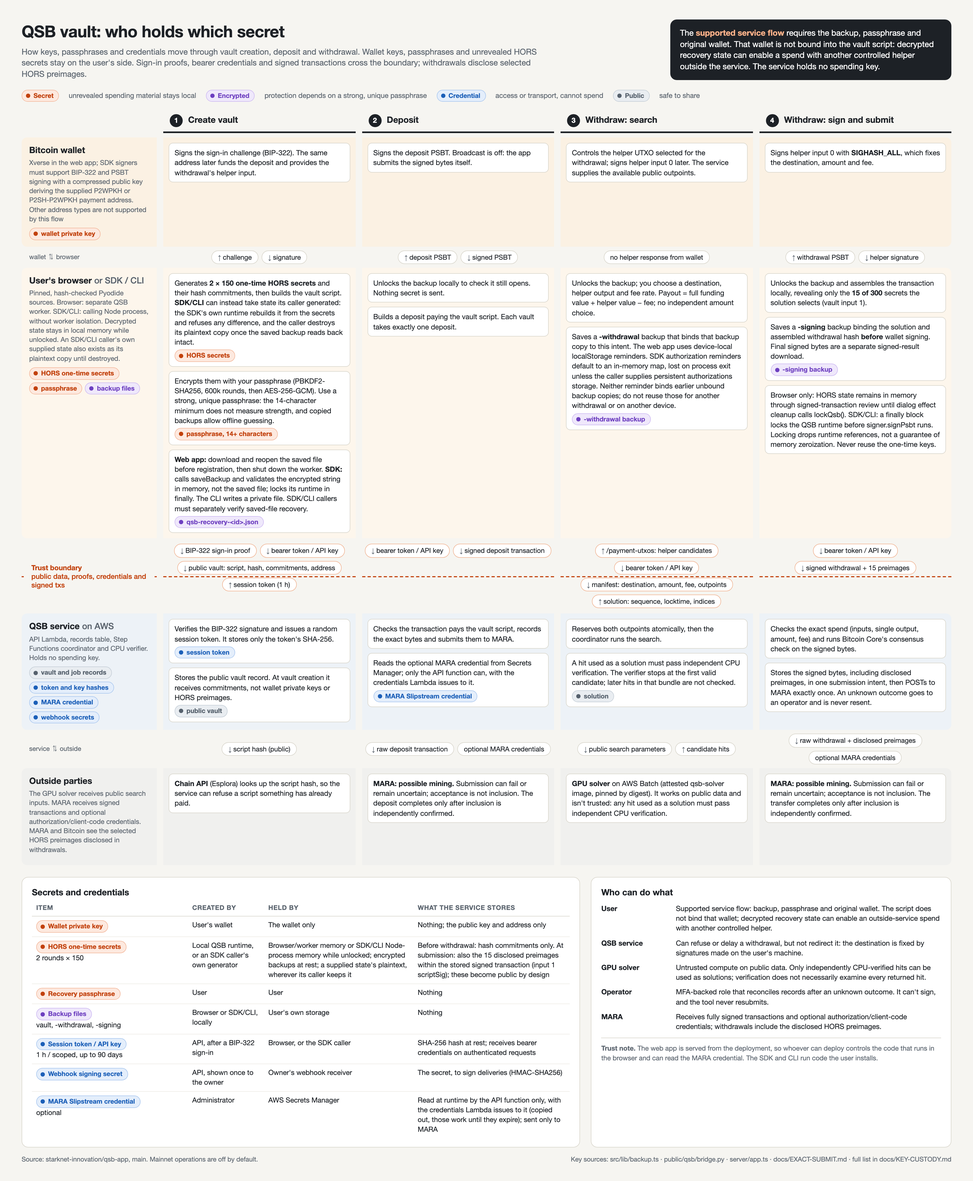
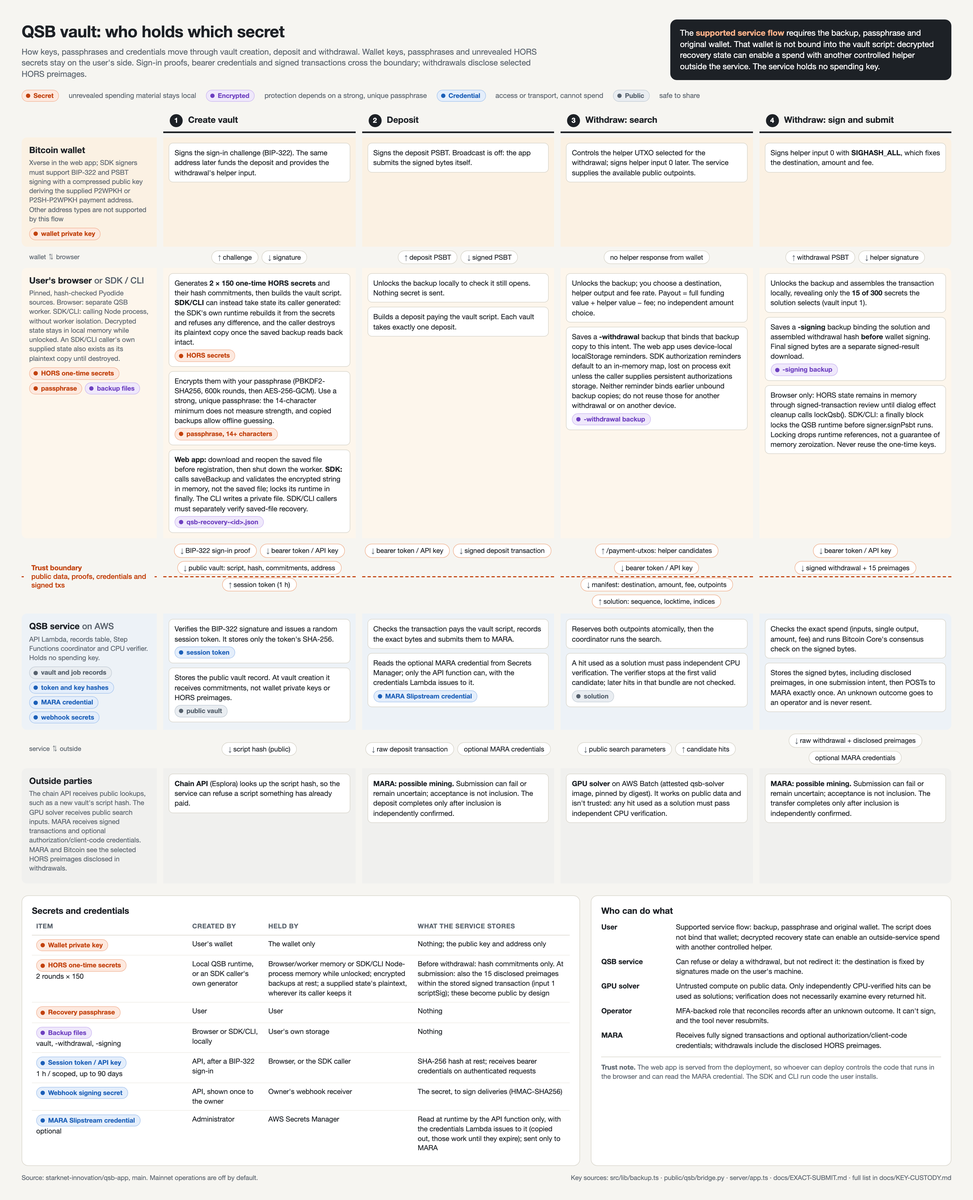
Ask the chain first; guide the SDK caller after a failed chain lookup
POST /api/vaults asks the chain before it reveals a reservation, so a script
anyone can see on chain gets vault_script_paid whether or not a vault here has
it. A repeat of this vault's own request still skips the lookup.

The SDK says a failed chain lookup registered nothing and the saved backup is
for no vault, and its refusal messages no longer assume who holds or paid the
script. Docs: the Idempotency-Key replay of a repeated registration, when a
retry after a lost race is refused, and the chain API in the key-custody
summaries.

diff --git a/tests/sdk-supplied-state.test.ts b/tests/sdk-supplied-state.test.ts
@@ -360,7 +360,7 @@ describe("vaults.create with a supplied state", () => {
     );
     expect(error).toBeInstanceOf(RefusedState);
     expect(error.message).toBe(
-      "The deployment refused to register the vault (vault_script_registered): another vault on this deployment already has this script. A script locks one vault, which takes one deposit. Nothing was registered, and the backup just saved is for no new vault: never pay into its script, and destroy that backup only if you hold another copy of this state.",
+      "The deployment refused to register the vault (vault_script_registered): another vault on this deployment already has this script. A script locks one vault, which takes one deposit. Nothing was registered, and the backup just saved is for no new vault: pay into this script only as the one deposit of the vault that has it. Destroy that backup only if you hold another copy of this state.",
     );
     expect(saveBackup).toHaveBeenCalledOnce();
     expect(storedVaults(w)).toEqual([vault.id]);
@@ -379,9 +379,29 @@ describe("vaults.create with a supplied state", () => {
     expect(error).toBeInstanceOf(RefusedState);
     // The secrets may already lock someone's payment: the message never says to discard the backup.
     expect(error.message).toBe(
-      "The deployment refused to register the vault (vault_script_paid): something has already paid this script on chain. A script locks one vault, which takes one deposit. Nothing was registered, and the app won't spend that output. Keep the backup just saved, or another copy of this state: it holds the secrets that can spend that output. Never pay into its script again.",
+      "The deployment refused to register the vault (vault_script_paid): something has already paid this script on chain. A script locks one vault, which takes one deposit, so no new vault can have it. Nothing was registered. Keep the backup just saved, or another copy of this state: it holds the secrets that can spend what was paid. Don't pay into this script for a new vault.",
     );
     expect(storedVaults(w)).toEqual([]);
+  }, 120000);
+
+  it("says a failed chain lookup registered nothing, and that the same state can be tried again", async () => {
+    const { w, client } = await signedIn();
+    w.chain.failing.add("/scripthash/");
+    const saveBackup = vi.fn(async () => {});
+    const error = await client.vaults.create({ name: "chain down", passphrase, saveBackup, stateJson: generated.stateJson }).then(
+      () => new Error("registered"),
+      (e: Error) => e,
+    );
+    // Not a verdict on the state.
+    expect(error).not.toBeInstanceOf(RefusedState);
+    expect(error.message).toBe(
+      "The deployment couldn't check the vault's script on chain (chain_unavailable), so it registered nothing. The backup just saved is for an unregistered vault: never pay into its script. Retry with the same state.",
+    );
+    expect(saveBackup).toHaveBeenCalledOnce();
+    expect(storedVaults(w)).toEqual([]);
+    w.chain.failing.clear();
+    const { vault } = await client.vaults.create({ name: "chain back", passphrase, saveBackup, stateJson: generated.stateJson });
+    expect(storedVaults(w)).toEqual([vault.id]);
   }, 120000);
 });
 

diff --git a/sdk/client.ts b/sdk/client.ts
@@ -225,15 +225,19 @@ function refused(error: ApiRequestError, what: string, next = ""): Error {
 }
 /**
  * The server's refusals of a vault whose script isn't new: final, and nothing was registered. Each
- * says what to do with the backup just saved. A paid script's backup may be the only copy of the
- * secrets that can spend that output, which the app never spends.
+ * says what to do with the backup just saved. The vault that has the script may be the caller's
+ * own, and a paid script's backup may be the only copy of the secrets that spend what was paid.
  */
 const scriptRefusals: Record<string, string> = {
   vault_script_registered:
-    "another vault on this deployment already has this script. A script locks one vault, which takes one deposit. Nothing was registered, and the backup just saved is for no new vault: never pay into its script, and destroy that backup only if you hold another copy of this state.",
+    "another vault on this deployment already has this script. A script locks one vault, which takes one deposit. Nothing was registered, and the backup just saved is for no new vault: pay into this script only as the one deposit of the vault that has it. Destroy that backup only if you hold another copy of this state.",
   vault_script_paid:
-    "something has already paid this script on chain. A script locks one vault, which takes one deposit. Nothing was registered, and the app won't spend that output. Keep the backup just saved, or another copy of this state: it holds the secrets that can spend that output. Never pay into its script again.",
+    "something has already paid this script on chain. A script locks one vault, which takes one deposit, so no new vault can have it. Nothing was registered. Keep the backup just saved, or another copy of this state: it holds the secrets that can spend what was paid. Don't pay into this script for a new vault.",
 };
+/** The server's chain lookup failed before it wrote anything: not a verdict on the state. */
+function chainFailure(error: unknown): error is ApiRequestError & { code: string } {
+  return error instanceof ApiRequestError && (error.code === "chain_unavailable" || error.code === "chain_error");
+}
 function scriptRefusal(error: unknown): error is ApiRequestError & { code: string } {
   return (
     error instanceof ApiRequestError &&
@@ -589,6 +593,11 @@ export class QsbClient {
           if (scriptRefusal(error))
             throw new RefusedState(
               `The deployment refused to register the vault (${error.code}): ${scriptRefusals[error.code]}`,
+              { cause: error },
+            );
+          if (chainFailure(error))
+            throw new Error(
+              `The deployment couldn't check the vault's script on chain (${error.code}), so it registered nothing. The backup just saved is for an unregistered vault: never pay into its script. ${supplied ? "Retry with the same state." : "A retry makes a new vault and a new backup."}`,
               { cause: error },
             );
           throw ownerRefusal(error)

diff --git a/tests/vault-script-reservation.test.ts b/tests/vault-script-reservation.test.ts
@@ -41,7 +41,7 @@ async function fixture(store = new MemoryStore()) {
       expiresAt: Math.floor(Date.now() / 1000) + 3600,
     });
   /** What the chain API reports for each script hash: its funded output counts, or another answer. */
-  const funded = new Map<string, { chain: number; mempool: number } | (() => Response)>();
+  const funded = new Map<string, { chain: number; mempool: number; spent?: number } | (() => Response)>();
   const lookups: string[] = [];
   const network = { genesis: NETWORK_CONFIG.genesisHash };
   const chain = new Esplora("https://chain.test", async (input) => {
@@ -53,7 +53,7 @@ async function fixture(store = new MemoryStore()) {
     const counts = funded.get(hash) ?? { chain: 0, mempool: 0 };
     if (typeof counts === "function") return counts();
     return Response.json({
-      chain_stats: { funded_txo_count: counts.chain, spent_txo_count: 0 },
+      chain_stats: { funded_txo_count: counts.chain, spent_txo_count: counts.spent ?? 0 },
       mempool_stats: { funded_txo_count: counts.mempool, spent_txo_count: 0 },
       scripthash: hash,
     });
@@ -110,8 +110,18 @@ describe("POST /api/vaults registers each script once on the deployment", () => 
     }
     expect(f.rows().vaults).toEqual([first.id]);
     expect(f.rows().reservations.map((row) => row.vaultId)).toEqual([first.id]);
-    // A held reservation refuses before the chain is asked.
-    expect(f.lookups).toEqual([first.scriptHash]);
+    // The chain is asked first each time.
+    expect(f.lookups).toEqual([first.scriptHash, first.scriptHash, first.scriptHash]);
+  });
+
+  it("answers a reserved script that is paid like any paid script, so the refusal doesn't say a vault here has it", async () => {
+    const f = await fixture();
+    const scriptHex = script();
+    const first = vaultFor(owners[0], scriptHex);
+    expect((await f.register(first)).status).toBe(201);
+    f.funded.set(first.scriptHash, { chain: 1, mempool: 0 });
+    expect(await f.register(vaultFor(owners[1], scriptHex))).toMatchObject({ status: 409, body: { code: "vault_script_paid" } });
+    expect(f.rows().vaults).toEqual([first.id]);
   });
 
   it("lets exactly one of two concurrent registrations of a script, from two addresses, succeed", async () => {
@@ -164,7 +174,7 @@ describe("POST /api/vaults registers each script once on the deployment", () => 
 
   it("refuses a script that something already paid, confirmed or in the mempool, spent or not", async () => {
     const f = await fixture();
-    for (const counts of [{ chain: 1, mempool: 0 }, { chain: 0, mempool: 1 }]) {
+    for (const counts of [{ chain: 1, mempool: 0 }, { chain: 0, mempool: 1 }, { chain: 1, mempool: 0, spent: 1 }]) {
       const vault = vaultFor(owners[0], script());
       f.funded.set(vault.scriptHash, counts);
       expect(await f.register(vault)).toEqual({

diff --git a/server/app.ts b/server/app.ts
@@ -670,12 +670,15 @@ export function createApp(
     const elsewhere = (held: Row | undefined) =>
       held !== undefined && (held.owner !== owner || held.vaultId !== vault.id);
     const held = await store.get(reservation.pk, reservation.sk);
+    const repeat = held !== undefined && !elsewhere(held);
+    // A paid script is never a new vault: a paid vault row here without a reservation, or a script
+    // used outside this deployment. Asked before the reservation, so a script anyone can see on
+    // chain gets this answer whether or not a vault here has it. A failed lookup refuses too:
+    // nothing is written without it.
+    if (!repeat && (await ledger.scriptFunded(vault.scriptHash)))
+      return apiError(c, 409, "vault_script_paid", "This script has already been paid on chain, so it can't be a new vault.");
     if (elsewhere(held))
       return apiError(c, 409, "vault_script_registered", "Another vault on this deployment already has this script.");
-    // A paid script is never a new vault: a paid vault row here without a reservation, or a script
-    // used outside this deployment. A failed lookup refuses too: nothing is written without it.
-    if (!held && (await ledger.scriptFunded(vault.scriptHash)))
-      return apiError(c, 409, "vault_script_paid", "This script has already been paid on chain, so it can't be a new vault.");
     try {
       await store.atomicPut([
         { row: { pk: `OWNER#${owner}`, sk: `VAULT#${vault.id}`, version: 0, vault } },

diff --git a/tests/sdk-fixture.ts b/tests/sdk-fixture.ts
@@ -22,6 +22,8 @@ export const API = "http://127.0.0.1:8787";
 export class FakeChain {
   private txs = new Map<string, { raw: string; tx: btc.Transaction; height?: number }>();
   private blocks = [GENESIS];
+  /** Path prefixes that answer 503, like a failing provider. */
+  readonly failing = new Set<string>();
   add(raw: string): string {
     const tx = btc.Transaction.fromRaw(hex.decode(raw), opts);
     if (!this.txs.has(tx.id)) this.txs.set(tx.id, { raw: raw.toLowerCase(), tx });
@@ -46,6 +48,7 @@ export class FakeChain {
   }
   readonly fetch = (async (input: RequestInfo | URL) => {
     const path = new URL(String(input)).pathname;
+    if ([...this.failing].some((prefix) => path.startsWith(prefix))) return new Response("", { status: 503 });
     const text = (body: string) => new Response(body);
     const json = (body: unknown) => new Response(JSON.stringify(body));
     const missing = () => new Response("not found", { status: 404 });

diff --git a/docs/key-custody.html b/docs/key-custody.html
@@ -248,7 +248,7 @@
   <!-- EXTERNAL LANE -->
   <div class="lane-label external">
     <h2>Outside parties</h2>
-    <p>The GPU solver receives public search inputs. MARA receives signed transactions and optional authorization/client-code credentials. MARA and Bitcoin see the selected HORS preimages disclosed in withdrawals.</p>
+    <p>The chain API receives public lookups, such as a new vault's script hash. The GPU solver receives public search inputs. MARA receives signed transactions and optional authorization/client-code credentials. MARA and Bitcoin see the selected HORS preimages disclosed in withdrawals.</p>
   </div>
   <div class="cell external">
     <div class="step"><b>Chain API</b> (Esplora) looks up the script hash, so the service can refuse a script something has already paid.</div>

diff --git a/tests/api-errors.test.ts b/tests/api-errors.test.ts
@@ -310,6 +310,10 @@ const cases: [ApiErrorCode, number, (f: Fixture) => Response | Promise<Response>
   }],
   ["vault_invalid", 400, (f) => f.call("POST", "/vaults", vault({ paymentAddress: "bc1qunrelatedowner0000" }))],
   ["vault_script_registered", 409, async (f) => {
+    genesis(f);
+    f.routes.set(`/scripthash/${registrable().scriptHash}`, () =>
+      Response.json({ chain_stats: { funded_txo_count: 0 }, mempool_stats: { funded_txo_count: 0 } }),
+    );
     await f.store.put(scriptReservation("bc1qanotherowner", { id: other, scriptHash: registrable().scriptHash }));
     return f.call("POST", "/vaults", registrable());
   }],

diff --git a/sdk/README.md b/sdk/README.md
@@ -96,14 +96,14 @@ Rules that carry over from the webapp:
 - `adopt` in [`bridge.py`](../public/qsb/bridge.py) runs the pipeline's setup again with those secrets in place of its random draws, and every field must equal what that builds, in type and value: each commitment (its secret's HASH160), the dummy signatures, the pinning and round signatures with their nonces, and the full script, which setup builds only within the 10,000-byte and 201-opcode limits. A missing field is refused, and so is any field setup doesn't write, in a round signature too.
 - No vault of the signed-in address on this deployment has a script that pushes any of its HORS commitments, so none shares its script or one of its secrets. The SDK reads each vault's script, which the server binds to the vault's hash, not the commitments its public state declares. The SDK lists that address's vaults before the check, so an API key needs the `read` scope as well as `vaults`, and lists them again just before registering.
 
-`vaults.create` throws a `RefusedState` for a refused state, with a message that says what didn't match, naming the field: for example `The supplied recovery state was refused: hors_commitments[0][17] is not what the pipeline builds from these HORS secrets. Nothing was saved or registered.` Every refusal comes before `saveBackup`, except two, which come after it: the second listing finds a vault registered from the same secrets while the backup was saved, or the server refuses the vault's script as not new (`vault_script_registered`, `vault_script_paid`; [API](../docs/API.md#vault-registration)). Nothing is registered then, and the message says what to do with the backup just saved. After the second listing, discard it. After `vault_script_registered`, destroy it only if you hold another copy of the state. After `vault_script_paid`, keep it or another copy: something already paid that script, the app never spends that output, and only those secrets can. The server's refusal is a `RefusedState` with or without `stateJson`. Any other error (a name or passphrase it won't take, a runtime or deployment failure) is not a verdict on the state. An accepted state gives the same public state and script as when the SDK draws the same secrets itself, and its backup holds the same state; the same bundled runtime re-opens the backup after `saveBackup`.
+`vaults.create` throws a `RefusedState` for a refused state, with a message that says what didn't match, naming the field: for example `The supplied recovery state was refused: hors_commitments[0][17] is not what the pipeline builds from these HORS secrets. Nothing was saved or registered.` Every refusal comes before `saveBackup`, except two, which come after it: the second listing finds a vault registered from the same secrets while the backup was saved, or the server refuses the vault's script as not new (`vault_script_registered`, `vault_script_paid`; [API](../docs/API.md#vault-registration)). Nothing is registered then, and the message says what to do with the backup just saved. After the second listing, discard it. After `vault_script_registered`, destroy it only if you hold another copy of the state. After `vault_script_paid`, keep it or another copy: something already paid that script, and those secrets are what can spend it. The server's refusal is a `RefusedState` with or without `stateJson`. Any other error (a name or passphrase it won't take, a runtime or deployment failure) is not a verdict on the state. When the server's chain lookup fails (`chain_unavailable`, `chain_error`), the error says nothing was registered and the backup just saved is for no vault; retry with the same state. An accepted state gives the same public state and script as when the SDK draws the same secrets itself, and its backup holds the same state; the same bundled runtime re-opens the backup after `saveBackup`.
 
 Pass the text as written. The state holds integers above 2^53 (`pin_r`, `pin_s`, `pin_k` and each round's `r`, `s` and `k`) that `JSON.parse` rounds, and a rounded state is refused.
 
 The SDK can't check these, so they're up to you:
 
 - The secrets are random and nobody else has them. Draw them from a cryptographically secure source; setup's `--seed` makes them predictable. Anyone who has them can spend the vault.
-- The secrets lock no other vault. The server refuses the vault when another vault on this deployment, of any address, has the same script, or when something has already paid that script on chain, so of two `vaults.create` calls running at once with the same state only one registers. The SDK also refuses secrets whose commitments a vault script of the signed-in address pushes. Neither catches some of the secrets reused in a different script by another address, or the same script on another deployment while nothing has paid it ([what the server doesn't cover](../docs/API.md#vault-registration)). A state is for one vault and one deposit, and its secrets are for one state, in part or reordered: the first withdrawal discloses 15 of them, which would help someone else spend any other output whose script uses them.
+- The secrets lock no other vault. The server refuses the vault when another vault on this deployment, of any address, has reserved the same script, or when something has already paid that script on chain, so of two `vaults.create` calls running at once with the same state only one registers. The SDK also refuses secrets whose commitments a vault script of the signed-in address pushes. Neither catches some of the secrets reused in a different script by another address, or the same script on another deployment while nothing has paid it ([what the server doesn't cover](../docs/API.md#vault-registration)). A state is for one vault and one deposit, and its secrets are for one state, in part or reordered: the first withdrawal discloses 15 of them, which would help someone else spend any other output whose script uses them.
 - The plaintext copy. The backup holds the state encrypted. Keep the plaintext as safe as the backup until the saved backup reads back as the `backup` that `vaults.create` returned (the CLI checks this before it finishes), then destroy it.
 
 `nodeQsb().adoptQsb(stateJson)` runs the same bridge check on its own, without the address check, and returns what `generateQsb` would. It throws `RefusedState` when it refuses the state.

diff --git a/docs/API.md b/docs/API.md
@@ -86,11 +86,11 @@ Sign-in, reads and pause stay open, and so does `POST /api/jobs/:id/submit`: it 
 
 `POST /api/vaults` registers the public record of a vault the client generated. A script belongs to one vault and takes one deposit, so the server reserves each vault's script on the deployment, under any address. Before writing anything it refuses a script that isn't new:
 
-- **409 `vault_script_registered`**: another vault on this deployment already has this script. Each registration writes a reservation row, `SCRIPT#<scriptHash>` / `RESERVATION` (the owner and the vault id), in the same transaction as the vault row, with `attribute_not_exists`. Of two registrations of one script, at once or not, at most one succeeds. The one that loses a race gets `vault_script_registered`, or `state_conflict` while the winner's transaction is still in flight; a retry then gets `vault_script_registered`. The message never names the other vault or its address. As for `OUTPOINT#` rows, the API role's policy denies `DeleteItem`, `UpdateItem` and `BatchWriteItem` on them, and the code writes them only with `attribute_not_exists`.
-- **409 `vault_script_paid`**: the chain API reports an output paying the script, confirmed or in the mempool, spent or not (Esplora's `/scripthash/<scriptHash>`, `funded_txo_count`). This covers a script used outside this deployment, and a paid vault row here that has no reservation.
+- **409 `vault_script_paid`**: the chain API reports an output paying the script, confirmed or in the mempool, spent or not (Esplora's `/scripthash/<scriptHash>`, `funded_txo_count`). This covers a script used outside this deployment, and a paid vault row here that has no reservation. The chain is asked first, so a paid script gets this code whether or not a vault here has it: the refusal doesn't tell anyone who sees a script on chain whether this deployment holds it.
+- **409 `vault_script_registered`**: another vault on this deployment already has this script. Each registration writes a reservation row, `SCRIPT#<scriptHash>` / `RESERVATION` (the owner and the vault id), in the same transaction as the vault row, with `attribute_not_exists`. Of two registrations of one script, at once or not, at most one succeeds. The one that loses a race gets `vault_script_registered`, or `state_conflict` while the winner's transaction is still in flight; a retry gets `vault_script_registered` once the winner has committed. The message never names the other vault or its address. As for `OUTPOINT#` rows, the API role's policy denies `DeleteItem`, `UpdateItem` and `BatchWriteItem` on them, and the code writes them only with `attribute_not_exists`.
 - **A failed chain lookup refuses too** (503 `chain_unavailable`, or `chain_error`), and nothing is written; retry later. The check fails closed: a vault can't be funded without the chain API anyway (`/payment-utxos`, `/payment-input`), and registering a script that may already be paid could give it a second deposit.
 
-A repeat of a request that succeeded (same owner, same vault `id`) gets 409 `state_conflict`.
+A repeat of a request that succeeded (same owner, same vault `id`) gets 409 `state_conflict`, without a chain lookup, unless it sends the first request's `Idempotency-Key`, which replays the 201.
 
 What this doesn't cover:
 - Some vault rows on this deployment have no `SCRIPT#` reservation. A second registration of such a vault's script is refused only once something has paid it (`vault_script_paid`).

diff --git a/docs/KEY-CUSTODY.md b/docs/KEY-CUSTODY.md
@@ -11,7 +11,7 @@ Who holds each key, passphrase and credential through vault creation, deposit an
 - **Bitcoin wallet**: Xverse in the web app; SDK signers must support BIP-322 and PSBT signing with a compressed public key deriving the supplied P2WPKH or P2SH-P2WPKH payment address. Other address types are not supported by this flow. Holds the wallet private key.
 - **User's browser, or the SDK / CLI**: runs pinned, hash-checked QSB sources through Pyodide. The browser uses a separate worker; the SDK/CLI runs Pyodide in the calling Node process, without worker isolation. Decrypted HORS state is held in browser/worker memory or SDK/CLI process memory; passphrases and backup files stay on the user’s side. An SDK/CLI caller that supplies its own recovery state also holds the plaintext state it generated, until it destroys it.
 - **QSB service on AWS**: API Lambda, records table, Step Functions coordinator and CPU verifier. Holds vault and job records, session and API key hashes and webhook secrets, and reads the MARA credential. Holds no spending key.
-- **Outside parties**: The GPU solver receives public search inputs. MARA receives signed transactions and optional authorization/client-code credentials. MARA and Bitcoin see the selected HORS preimages disclosed in withdrawals.
+- **Outside parties**: The chain API receives public lookups, such as a new vault's script hash. The GPU solver receives public search inputs. MARA receives signed transactions and optional authorization/client-code credentials. MARA and Bitcoin see the selected HORS preimages disclosed in withdrawals.
 
 ## 1. Create vault
 
@@ -81,4 +81,4 @@ Who holds each key, passphrase and credential through vault creation, deposit an
 
 ## Sources
 
-Sources: `src/lib/backup.ts`, `public/qsb/bridge.py`, `public/qsb/qsb_pipeline.py`, `src/lib/wallet.ts`, `src/mainnet/localSignature.ts`, `server/app.ts`, `server/scoped-keys.ts`, `server/webhooks.ts`, `terraform/variables.tf`, `terraform/compute.tf`, `ops/github-aws/render.py`, `src/TransactionDialog.tsx`, `server/providers.ts`, `server/submit-exact.ts`, `src/App.tsx`, `server/transaction-checks.ts`, `sdk/runtime.ts`, `sdk/signer.ts`, `sdk/client.ts`, `sdk/cli.ts`, `worker/cpu/handler.py` and [EXACT-SUBMIT.md](EXACT-SUBMIT.md). Keep this page, `key-custody.html` and `key-custody.png` in step; see "Docs" in `AGENTS.md`.
+Sources: `src/lib/backup.ts`, `public/qsb/bridge.py`, `public/qsb/qsb_pipeline.py`, `src/lib/wallet.ts`, `src/mainnet/localSignature.ts`, `server/app.ts`, `server/chain.ts`, `server/scoped-keys.ts`, `server/webhooks.ts`, `terraform/variables.tf`, `terraform/compute.tf`, `ops/github-aws/render.py`, `src/TransactionDialog.tsx`, `server/providers.ts`, `server/submit-exact.ts`, `src/App.tsx`, `server/transaction-checks.ts`, `sdk/runtime.ts`, `sdk/signer.ts`, `sdk/client.ts`, `sdk/cli.ts`, `worker/cpu/handler.py` and [EXACT-SUBMIT.md](EXACT-SUBMIT.md). Keep this page, `key-custody.html` and `key-custody.png` in step; see "Docs" in `AGENTS.md`.
